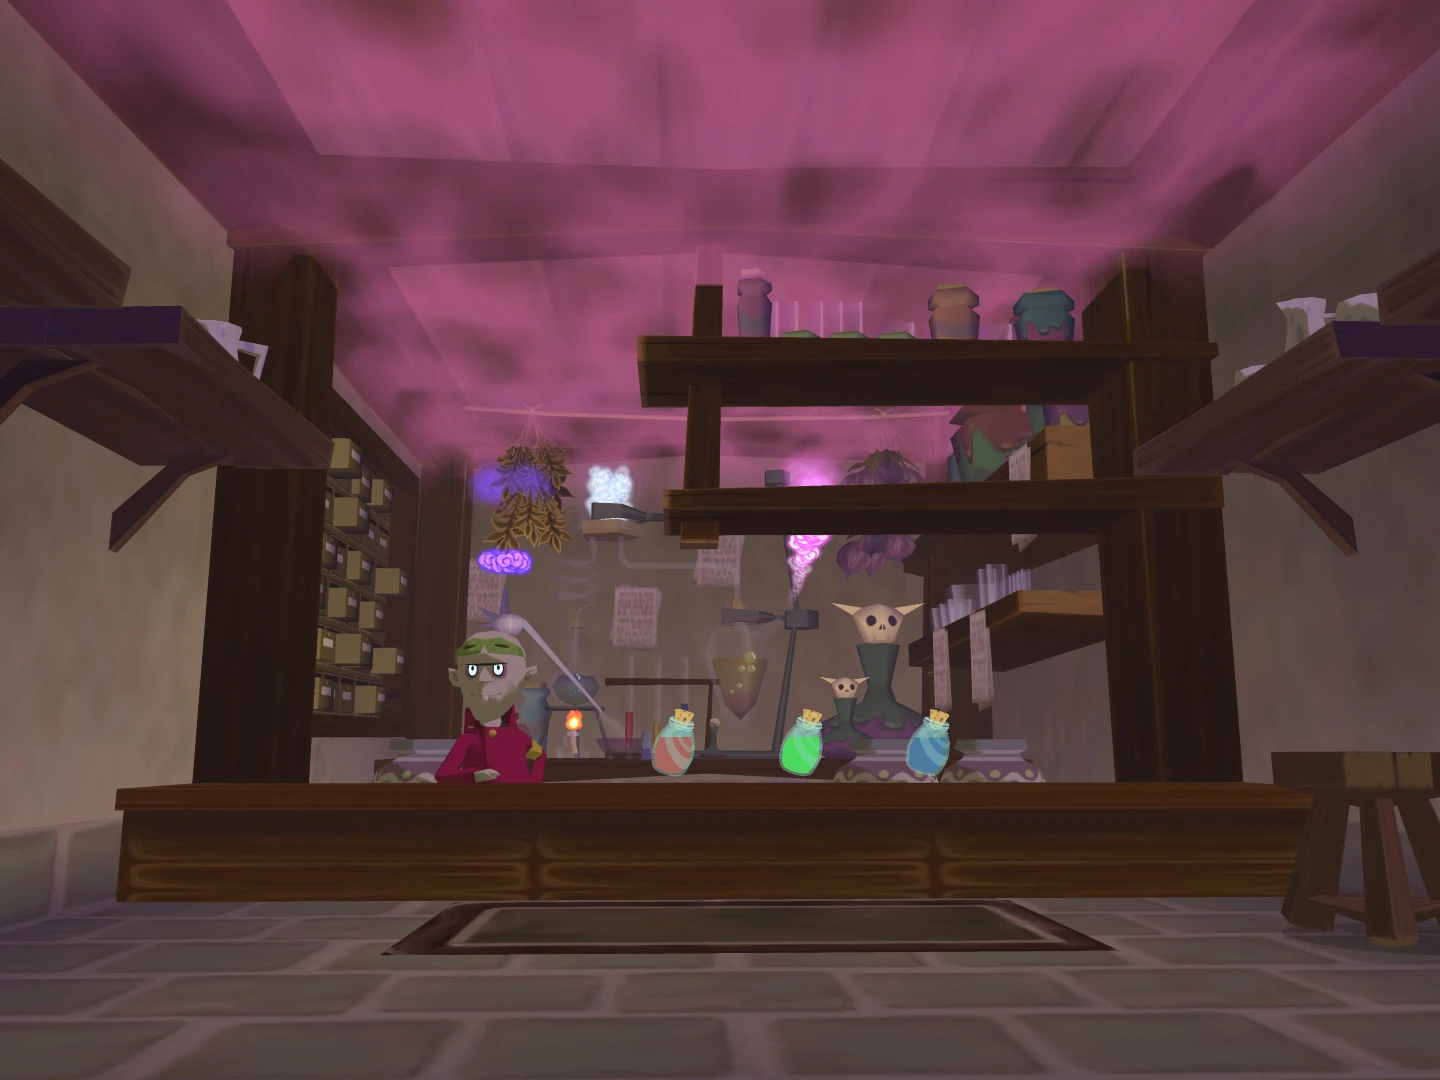
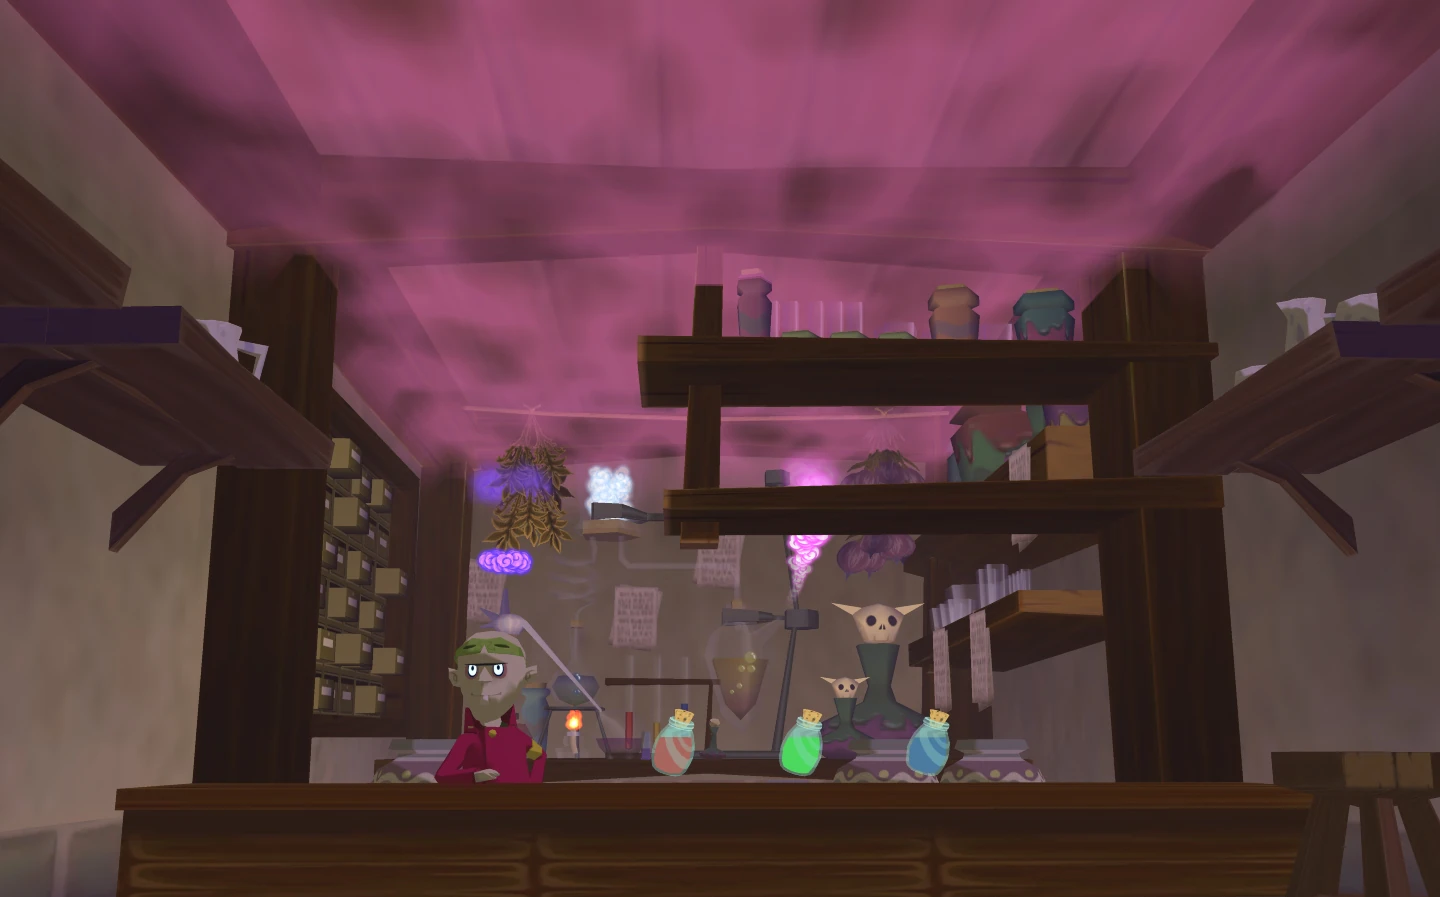
CSS Lobby

diff --git a/css/lobby.css b/css/lobby.css
@@ -10,30 +10,37 @@
     --coins-boutons: 25px;
     --police: 'Chakra Petch', sans-serif;
     width: 100vw;
-    height: 100vh;
+    height: 100vh;    
+    background-color: black;   
 }
 
 * {
     margin: 0;
     padding: 0;
     color: white;
-    overflow: hidden;    
+    overflow: hidden; 
     /* max-width: 1440px; */
 }
 
 body {
-    background-image: url("../assets/jellyshop2.png");
+    width: 100%;
+    height: 100%;
+    position: relative;
+    top: 0px;
+    left: 0px;
+    background-image: url("../assets/jellyshopbig.png");
     background-repeat: no-repeat;
-    background-position: bottom;
-    background-size: cover;
+    background-position-x: left;
+    background-position-y: bottom;
+    background-size: auto;
 }
 
 .chat-frame {
     width: fit-content;
     height: fit-content;
-    position: relative;
-    top: 20%;
-    left: 50%;
+    position: absolute;
+    top: 250px;
+    left: 920px;
     border: none;
     background-color: rgba(255, 255, 255, 0.5);
 }
